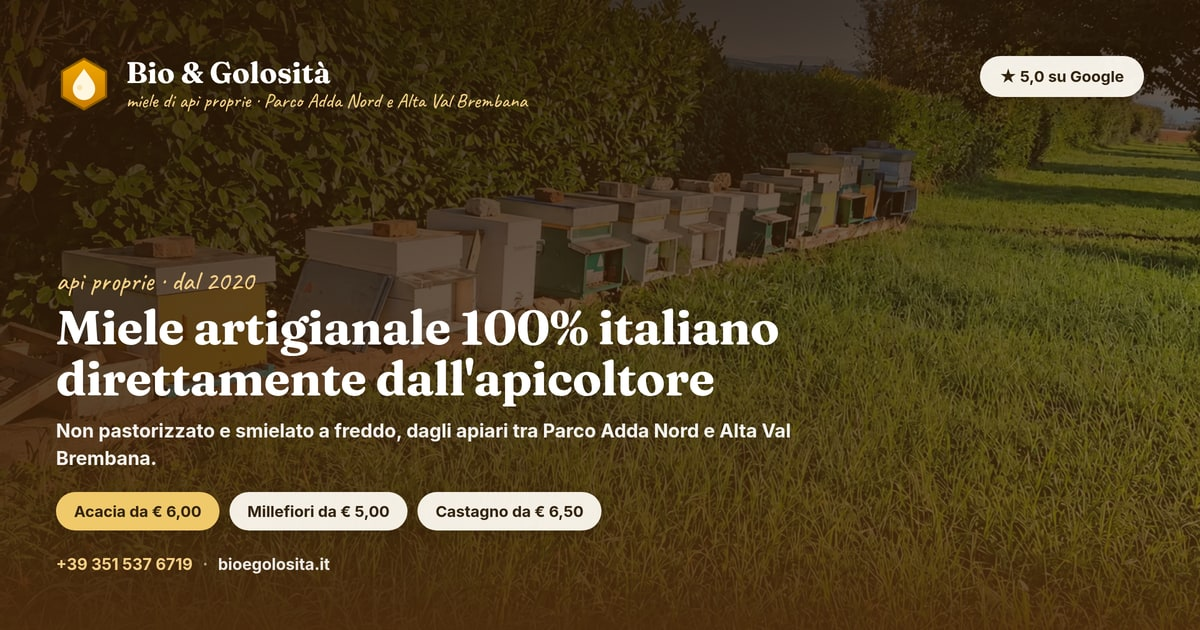
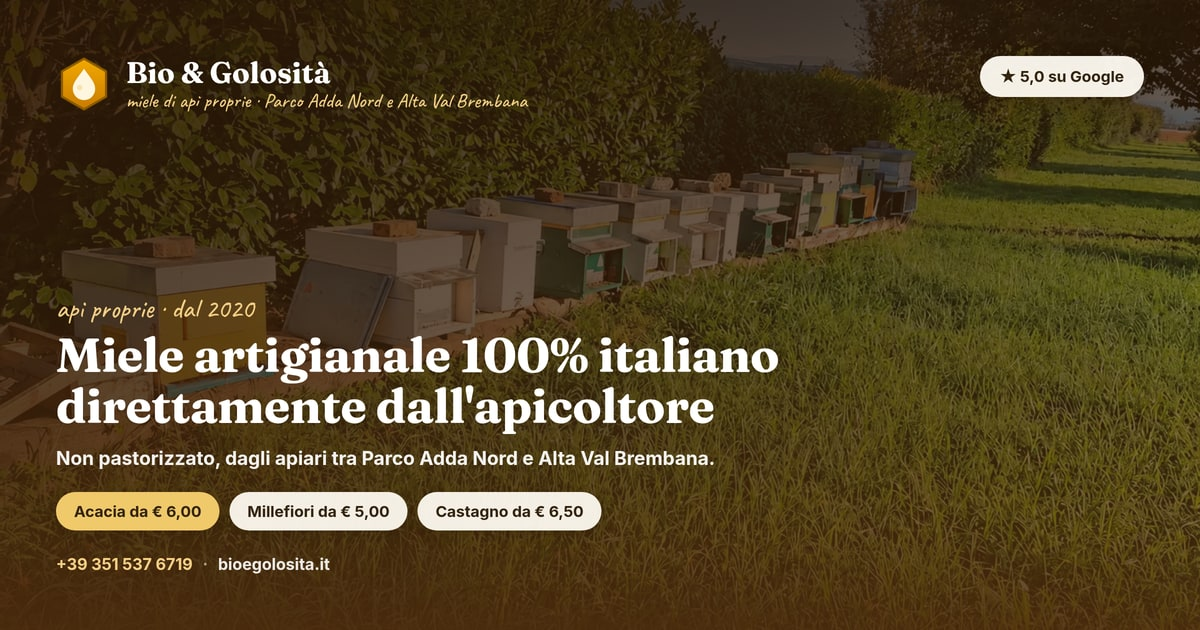
Mieli: via la dicitura «smielato a freddo»
La frase non descrive niente di distintivo — non esiste un «smielato a
caldo» con cui confrontarsi — quindi sparisce da tutto il sito, in tutte
le sue forme: «smielato/smielati a freddo», «smielo/smieliamo a freddo»,
«smielatura a freddo», «lavorato a freddo».

Dove c'era, resta il dato che è verificabile e già presente in pagina:
«non pastorizzato».

- pagine: home (card mieli, hero, «il tuo apicoltore»), /nuclei-api/,
  /miele/ (intro, FAQ, descrizione card guida), /chi-siamo/;
- la card del metodo in /chi-siamo/, che si intitolava «Smielatura a
  freddo», diventa «Miele non pastorizzato» con il testo riscritto su
  estratto/decantato/non scaldato;
- dati e SEO: schede miele in site.js (workNote «Lavorazione», FAQ,
  didascalia video), guides.ts, la descrizione del LocalBusiness in
  schema.js;
- copy delle immagini OG (scripts/og/pages.mjs) e relativa
  rigenerazione di public/og/{home,miele}.jpg;
- il banner `banner-facebook-miele-titolo.html` e il default del
  `workNote` documentato nel README.

Resta «estratto a freddo» nella didascalia della guida sul miele non
pastorizzato: lì descrive il metodo, non è la dicitura.

Changed region(s): [[0.0308, 0.4222, 0.6783, 0.754]]

diff --git a/banner-facebook-miele-titolo.html b/banner-facebook-miele-titolo.html
@@ -1,0 +1,90 @@
+<!doctype html>
+<html lang="it">
+<head>
+<meta charset="utf-8">
+<title>Banner Facebook — miele, titolo grande</title>
+<!--
+  Banner Facebook 1080×1350 (4:5). Qui comanda la **frase**: l'occhiello in
+  Caveat, il titolo in Fraunces grande su due righe, una riga di spiegazione, e
+  sotto una sola foto — il favo, che è un primo piano e regge la striscia larga
+  meglio di un barattolo (un barattolo in 960×620 si taglierebbe sopra e sotto).
+
+  È il disegno più tipografico dei sei: nessuna disposizione da leggere, solo
+  l'ordine con cui si legge. Nessun velo, nessun testo sopra la foto, niente
+  prezzi né badge.
+-->
+<style>
+  @font-face { font-family:'Fraunces'; font-style:normal; font-weight:700; font-display:block; src:url('public/fonts/fraunces-700-latin.woff2') format('woff2'); }
+  @font-face { font-family:'Inter'; font-style:normal; font-weight:400; font-display:block; src:url('public/fonts/inter-400-latin.woff2') format('woff2'); }
+  @font-face { font-family:'Inter'; font-style:normal; font-weight:700; font-display:block; src:url('public/fonts/inter-700-latin.woff2') format('woff2'); }
+  @font-face { font-family:'Caveat'; font-style:normal; font-weight:500; font-display:block; src:url('public/fonts/caveat-500-latin.woff2') format('woff2'); }
+
+  * { margin:0; padding:0; box-sizing:border-box; }
+  html, body { width:1080px; height:1350px; overflow:hidden; }
+  body { font-family:'Inter', system-ui, sans-serif; color:#33240f; background:#fffbf2; }
+
+  .frame { position:relative; width:1080px; height:1350px; overflow:hidden; display:flex; flex-direction:column; background:#fffbf2; }
+
+  /* ── testata ───────────────────────────────────────────────────────────── */
+  .head { flex:none; padding:44px 56px 0; }
+  .brand { display:flex; align-items:center; gap:18px; }
+  .brand .mark { display:block; width:76px; height:76px; flex:none; }
+  .brand-name { display:block; font-family:'Fraunces', serif; font-weight:700; font-size:40px; line-height:1; color:#33240f; }
+  .brand-sub { display:block; font-family:'Caveat', cursive; font-weight:500; font-size:28px; line-height:1; color:#9a6200; margin-top:4px; }
+
+  /* ── il titolo ─────────────────────────────────────────────────────────── */
+  .text { flex:none; padding:40px 70px 0; text-align:center; }
+  .eyebrow { display:block; font-family:'Caveat', cursive; font-weight:500; font-size:42px; line-height:1; color:#9a6200; }
+  .title { margin-top:6px; font-family:'Fraunces', serif; font-weight:700; font-size:64px; line-height:1.06; letter-spacing:-0.015em; color:#33240f; }
+  .sub { margin-top:16px; font-size:25px; font-weight:400; line-height:1.4; color:#6b5638; }
+
+  /* ── la striscia: il favo, nessun velo ─────────────────────────────────── */
+  .photo { flex:none; margin:32px 60px 0; }
+  .photo img { display:block; width:960px; height:620px; object-fit:cover; border-radius:20px; }
+
+  /* ── la CTA ────────────────────────────────────────────────────────────── */
+  .cta { flex:none; margin-top:auto; margin-bottom:46px; padding:0 56px; display:flex; flex-direction:column; align-items:center; gap:18px; }
+  .pill {
+    display:inline-flex; align-items:center; gap:18px; white-space:nowrap;
+    background:#0e8446; color:#fff; border-radius:999px;
+    padding:26px 48px; font-size:42px; font-weight:700; line-height:1;
+    box-shadow:0 12px 30px rgba(14,132,70,0.32);
+  }
+  .pill svg { width:1.05em; height:1.05em; flex:none; }
+  .num { font-family:'Fraunces', serif; font-weight:700; font-size:52px; line-height:1; letter-spacing:-0.01em; white-space:nowrap; color:#33240f; }
+  .domain { font-size:24px; font-weight:700; line-height:1.2; letter-spacing:0.04em; color:#6b5638; }
+</style>
+</head>
+<body>
+  <div class="frame">
+    <div class="head">
+      <div class="brand">
+        <img class="mark" src="public/logo.svg" alt="">
+        <div class="brand-text">
+          <span class="brand-name">Bio &amp; Golosità</span>
+          <span class="brand-sub">miele dal 2020</span>
+        </div>
+      </div>
+    </div>
+
+    <div class="text">
+      <span class="eyebrow">100% italiano · di api proprie</span>
+      <h1 class="title">Miele artigianale, direttamente dall'apicoltore</h1>
+      <p class="sub">Dai nostri apiari: non pastorizzato.</p>
+    </div>
+
+    <figure class="photo">
+      <img data-photo="miele-in-favo.jpg" src="miele-in-favo.jpg" alt="Miele in favo" style="object-position:50.00% 0.00%">
+    </figure>
+
+    <div class="cta">
+      <span class="pill">
+        <svg viewBox="0 0 24 24" fill="currentColor" aria-hidden="true"><path d="M17.472 14.382c-.297-.149-1.758-.867-2.03-.967-.273-.099-.471-.148-.67.15-.197.297-.767.966-.94 1.164-.173.199-.347.223-.644.075-.297-.15-1.255-.463-2.39-1.475-.883-.788-1.48-1.761-1.653-2.059-.173-.297-.018-.458.13-.606.134-.133.298-.347.446-.52.149-.174.198-.298.298-.497.099-.198.05-.371-.025-.52-.075-.149-.669-1.612-.916-2.207-.242-.579-.487-.5-.669-.51-.173-.008-.371-.01-.57-.01-.198 0-.52.074-.792.372-.272.297-1.04 1.016-1.04 2.479 0 1.462 1.065 2.875 1.213 3.074.149.198 2.096 3.2 5.077 4.487.709.306 1.262.489 1.694.625.712.227 1.36.195 1.871.118.571-.085 1.758-.719 2.006-1.413.248-.694.248-1.289.173-1.413-.074-.124-.272-.198-.57-.347m-5.421 7.403h-.004a9.87 9.87 0 01-5.031-1.378l-.361-.214-3.741.982.998-3.648-.235-.374a9.86 9.86 0 01-1.51-5.26c.001-5.45 4.436-9.884 9.888-9.884 2.64 0 5.122 1.03 6.988 2.898a9.825 9.825 0 012.893 6.994c-.003 5.45-4.437 9.884-9.885 9.884m8.413-18.297A11.815 11.815 0 0012.05 0C5.495 0 .16 5.335.157 11.892c0 2.096.547 4.142 1.588 5.945L.057 24l6.305-1.654a11.882 11.882 0 005.683 1.448h.005c6.554 0 11.89-5.335 11.893-11.893a11.821 11.821 0 00-3.48-8.413Z"/></svg>
+        Scrivici su WhatsApp
+      </span>
+      <div class="num">+39 351 537 6719</div>
+      <div class="domain">bioegolosita.it</div>
+    </div>
+  </div>
+</body>
+</html>

diff --git a/src/data/site.js b/src/data/site.js
@@ -294,7 +294,7 @@ export const site = {
       originNote:
         "La raccolta dell'acacia avviene tra fine aprile e inizio maggio negli apiari che seguiamo nel Parco Adda Nord.",
       /** Riga "Lavorazione" dei quattro dati di origine. */
-      workNote: 'Smielato a freddo, non pastorizzato',
+      workNote: 'Non pastorizzato',
       // Le caratteristiche del blocco prodotto. La **seconda** è la
       // microdescrizione che la card mostra in /miele/ (`characteristics[1]`).
       characteristics: [
@@ -540,7 +540,7 @@ export const site = {
       faq: [
         {
           q: 'Perché questo millefiori cristallizza così presto?',
-          a: 'Perché contiene molto tarassaco, ricco di glucosio, lo zucchero che cristallizza più facilmente. Per questo diventa granuloso in poche settimane. Noi smieliamo a freddo e non pastorizziamo: così preserviamo profumi e aromi, anche se il miele cristallizza prima. Non è un difetto, ma un segno della sua naturalezza.',
+          a: 'Perché contiene molto tarassaco, ricco di glucosio, lo zucchero che cristallizza più facilmente. Per questo diventa granuloso in poche settimane. Noi non pastorizziamo: così preserviamo profumi e aromi, anche se il miele cristallizza prima. Non è un difetto, ma un segno della sua naturalezza.',
         },
         {
           q: 'Quando viene raccolto, e in che ordine arrivano i vostri mieli?',
@@ -605,7 +605,7 @@ export const site = {
           label: 'La smielatura del nostro millefiori (raccolto 2026)',
           cls: 'video-item--tall',
           caption:
-            'La smielatura del nostro millefiori: il miele esce dallo smielatore a freddo, senza pastorizzazione.',
+            'La smielatura del nostro millefiori: il miele esce dallo smielatore, senza pastorizzazione.',
         },
       ],
       faq: [
@@ -619,7 +619,7 @@ export const site = {
         },
         {
           q: 'Quando viene raccolto?',
-          a: 'Come il millefiori al tiglio e more, viene raccolto a giugno, quando tiglio e ailanto sono in piena fioritura. È smielato a freddo e non pastorizzato, come tutti i nostri mieli.',
+          a: 'Come il millefiori al tiglio e more, viene raccolto a giugno, quando tiglio e ailanto sono in piena fioritura. Non è pastorizzato, come tutti i nostri mieli.',
         },
         { ...deliveryFaq },
       ],

diff --git a/src/data/guides.ts b/src/data/guides.ts
@@ -39,7 +39,7 @@ const base: Omit<Guide, 'datePublished'>[] = [
     push: {
       href: '/miele/',
       label: 'Scopri i nostri mieli non pastorizzati',
-      note: 'Tutti i mieli Bio & Golosità sono smielati a freddo e non pastorizzati: li trovi nella pagina dei mieli, con prezzi e formati.',
+      note: 'Nessuno dei mieli Bio & Golosità è pastorizzato: li trovi nella pagina dei mieli, con prezzi e formati.',
     },
     blocks: [
       {
@@ -88,7 +88,7 @@ const base: Omit<Guide, 'datePublished'>[] = [
       },
       { h2: 'Perché noi non pastorizziamo' },
       {
-        p: 'Perché il nostro miele è di api nostre, raccolto nei nostri apiari nel Parco Adda Nord e in Alta Val Brembana, e venduto direttamente: non deve attraversare mesi di magazzino e non deve restare identico per anni. Lo smieliamo a freddo e lo invasettiamo a piccoli lotti, così ogni barattolo conserva il profumo della sua fioritura. Se vuoi sapere cosa vuol dire concretamente, nella pagina <a href="/chi-siamo/">chi siamo</a> raccontiamo come lavoriamo.',
+        p: 'Perché il nostro miele è di api nostre, raccolto nei nostri apiari nel Parco Adda Nord e in Alta Val Brembana, e venduto direttamente: non deve attraversare mesi di magazzino e non deve restare identico per anni. Lo smieliamo e lo invasettiamo a piccoli lotti, così ogni barattolo conserva il profumo della sua fioritura. Se vuoi sapere cosa vuol dire concretamente, nella pagina <a href="/chi-siamo/">chi siamo</a> raccontiamo come lavoriamo.',
       },
       {
         cta: { href: '/miele/', label: 'Vedi i nostri mieli non pastorizzati' },
@@ -323,7 +323,7 @@ const base: Omit<Guide, 'datePublished'>[] = [
 
       { h2: 'I nostri mieli vengono dai nostri apiari' },
       {
-        p: 'I mieli Bio & Golosità sono prodotti dalle nostre api in Lombardia e lavorati direttamente da noi. Li smieliamo a freddo e non li pastorizziamo.',
+        p: 'I mieli Bio & Golosità sono prodotti dalle nostre api in Lombardia e lavorati direttamente da noi. Li smieliamo e non li pastorizziamo.',
       },
       {
         p: 'Acacia, millefiori e castagno non differiscono quindi per il modo in cui li lavoriamo, ma soprattutto per <strong>fioritura, territorio, periodo di raccolta e profilo aromatico</strong>.',

diff --git a/src/lib/schema.js b/src/lib/schema.js
@@ -25,7 +25,7 @@ const areaServedType = (name) => {
 const businessDescription = () =>
   `Apicoltore con sede legale a Cassano d'Adda (Milano) e apiari nel Parco Adda Nord e in Alta Val Brembana: miele 100% italiano e artigianale di api proprie — ${site.honeys
     .map((h) => h.name.toLowerCase().replace(/^(miele\s+)?(di\s+)?/, ''))
-    .join(', ')} — non pastorizzato e smielato a freddo. Produciamo anche api regine e nuclei d'api.`;
+    .join(', ')} — non pastorizzato. Produciamo anche api regine e nuclei d'api.`;
 
 /** L'apicoltore, come entità Person (E-E-A-T). */
 export function person() {

diff --git a/README.md b/README.md
@@ -542,7 +542,7 @@ Campi che una scheda può avere in `src/data/site.js`:
 - `characteristics` — le voci del blocco prodotto (e la microdescrizione della
   card su `/miele/`, via `characteristics[1]`);
 - `workNote` — la riga "Lavorazione" (facoltativa: senza, il default è
-  "Smielatura a freddo, decantazione, nessuna pastorizzazione");
+  "Smielatura, decantazione, nessuna pastorizzazione");
 - `videos` — mp4 + poster AVIF + `caption`, che è la didascalia resa sotto il
   video in un `<figcaption>`;
 - `faq` — le domande della scheda (la pagina ne mostra quante ce ne sono);
